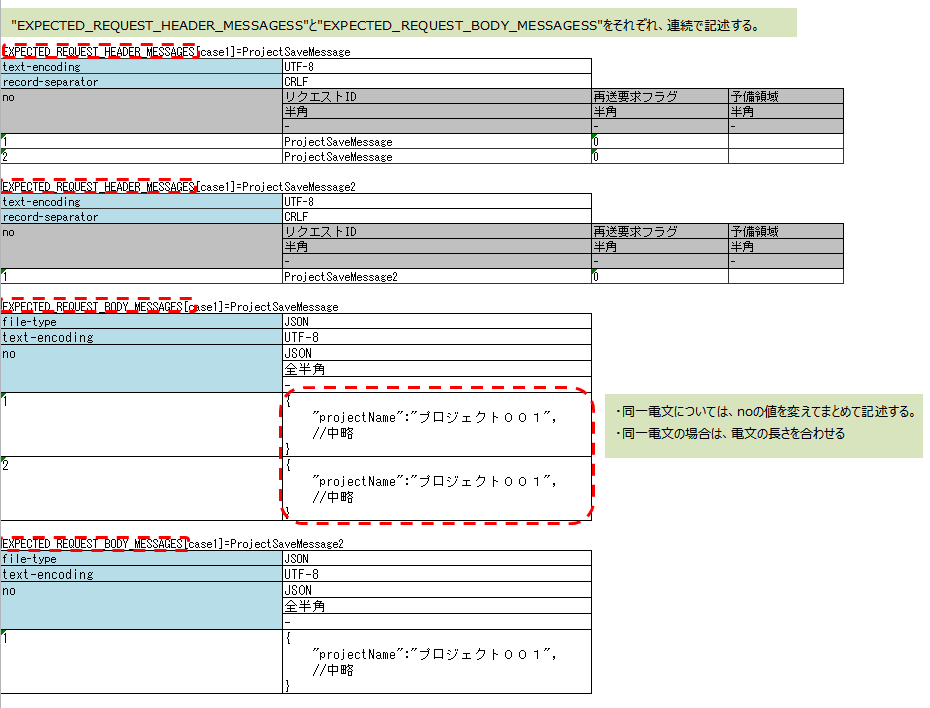
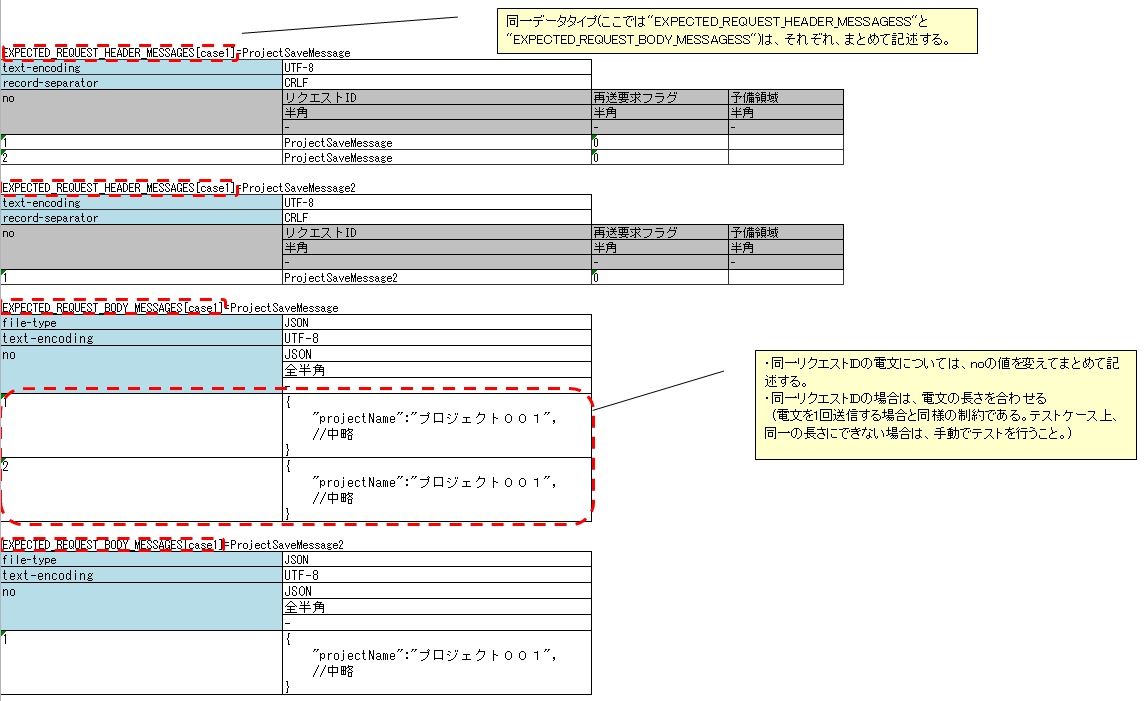
過去の対応で既に記載されていた説明(複数のデータタイプを使用する際の注意)を削除。他、読みにくい部分を修正。

Changed region(s): [[0.0, 0.0, 0.9978, 1.0], [0.4989, 0.9586, 0.5301, 0.9886]]

diff --git a/development_tools/testing_framework/guide/development_guide/05_UnitTestGuide/02_RequestUnitTest/send_sync.rst b/development_tools/testing_framework/guide/development_guide/05_UnitTestGuide/02_RequestUnitTest/send_sync.rst
@@ -239,23 +239,19 @@ no                         ディレクティブ行の下の行には必ず「no
     * 業務データ(3レコード目)
 
 
-.. important::
- リクエスト単体テストの対象が複数回メッセージ送信を行う際は、以下の点に注意すること。
+以下に、複数回メッセージを送信する場合の要求電文の本文の期待値の記載例を示す。
 
- * 異なるリクエストIDのメッセージを送信する際、同一データタイプ( ``RESPONSE_HEADER_MESSAGES`` 等)を複数回記述する必要がある。この場合、同一データタイプは連続で記述すること。データタイプ自体の説明は、\ :ref:`structure_in_excel_sheet`\ を参照。
- * 同一リクエストIDメッセージを一つのテストケースで複数回送信する際は、noの値を変えてまとめて記述すること。
- * 同一リクエストIDメッセージを一つのテストケースで複数回送信する際は、同じ種類の電文は同じ長さにすること。テストケース上、同一の長さにできない場合は、手動でテストを行うこと。
+.. image:: ./_image/send_sync_ok_pattern_expected.png
+   :scale: 80
 
- 以下に複数回メッセージ送信を行う際の、応答電文の記述例を示す。
 
- .. image:: ./_image/send_sync_ok_pattern_response.png
+.. tip::
+ 同一データタイプを複数回記述する場合の注意点の詳細は、 \ :ref:`tips_groupId`\ 及び、 \ :ref:`auto-test-framework_multi-datatype`\ を参照。
 
- 以下に複数回メッセージ送信を行う際の、要求電文の記述例を示す。
 
- .. image:: ./_image/send_sync_ok_pattern_expected.png
+.. tip::
+ 異なるリクエストIDのメッセージを送信する際、送信順のテストは不可能である。上記の例の場合、 ``ProjectInsertMessage`` より先に、 ``ProjectInsert2Messag`` が送信された場合であってもテストは成功となる。
 
-また、異なる種類のメッセージを送信する際、送信順のテストは不可能である。
-上記の例の場合、 ``ProjectInsertMessage`` より先に、 ``ProjectInsert2Messag`` が送信された場合であってもテストは成功となる。
 
 .. _`send_sync_failure_test`:
 

diff --git a/development_tools/testing_framework/guide/development_guide/06_TestFWGuide/01_Abstract.rst b/development_tools/testing_framework/guide/development_guide/06_TestFWGuide/01_Abstract.rst
@@ -248,8 +248,6 @@ Excelシートについては、以下の規約が推奨される。
   仮に命名規約を変更する場合であってもプロジェクト内で統一を図ること。
 
 
-.. _`structure_in_excel_sheet`:
-
 
 シート内の構造
 ==============
@@ -319,21 +317,6 @@ SETUP_TABLE=COMPOSER
 |  00002 | Phillip    | Glass     |
 +--------+------------+-----------+
 
-
-.. important::
- １シート内で、同一データタイプを複数回記述する必要がある場合は、連続で記述すること。
-
- 以下はOKのパターンである。
- ``RESPONSE_HEADER_MESSAGES`` と、 ``RESPONSE_BODY_MESSAGES`` をそれぞれ連続で記述している。
- 
- .. image:: _images/data_repetitive_ok_pattern.png
-  :scale: 90
-
- 以下はNGのパターンである。
- ``RESPONSE_HEADER_MESSAGES`` と ``RESPONSE_BODY_MESSAGES`` を交互に記述している。このように記述するとテストデータは正常に読み込まれない。
- 
- .. image:: _images/data_repetitive_ng_pattern.png
-  :scale: 90
 
 
 コメント
